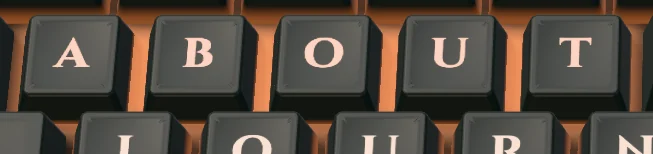
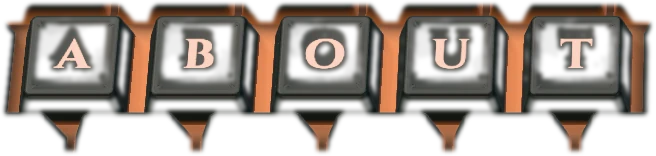
Footer keyboard: hover/press frames keep only the pixels that change
Each frame was a hard rectangle that also carried copies of the neighbouring
keys; scaled by the browser they sat a hair off the board beneath and the
keys under a pressed word looked distorted. The export now masks every frame
to what actually changes (the word and its light), feathered, so the
surrounding keys are always the board's own pixels.

Claude-Session: https://claude.ai/code/session_014kgsP4zXbR91SpjPr6JWR2

diff --git a/mockups/keys/board-export.py b/mockups/keys/board-export.py
@@ -3,7 +3,7 @@ Usage: python3 board-export.py <render dir> <repo root>
 Reads base.png (unlit), lit.png and <id>-h.png / <id>-p.png (hover / pressed, both lit) from render-board.js.
 Writes src/static/assets/footer-board/*.webp and the boxes in src/static/data/footer-board.json."""
 import json, sys
-from PIL import Image, ImageChops
+from PIL import Image, ImageChops, ImageFilter
 src, root = sys.argv[1], sys.argv[2]
 out = root + '/src/static/assets/footer-board'
 data_path = root + '/src/static/data/footer-board.json'
@@ -21,9 +21,16 @@ for id, key in data['keys'].items():
     key['hit'] = pct(x0 - crop[0], y0 - crop[1], x1 - crop[0], y1 - crop[1])
     for st in 'hp':
         im = Image.open(f'{src}/{id}-{st}.png').crop(crop)
-        d = ImageChops.difference(im, L).convert('L').point(lambda v: 255 if v > 3 else 0).getbbox()
-        d = (max(0, d[0] - 6), max(0, d[1] - 6), min(W, d[2] + 6), min(H, d[3] + 6))
-        im.crop(d).save(f'{out}/{id}-{st}.webp', quality=86, method=6)
+        # keep only what changes (the word and its light), feathered: unchanged neighbours stay the board's own
+        # pixels, so a frame scaled by the browser can never shift or blur the keys around it
+        diff = ImageChops.difference(im.convert('RGB'), L.convert('RGB'))
+        mask = diff.split()[0]
+        for ch in diff.split()[1:]: mask = ImageChops.lighter(mask, ch)
+        mask = mask.point(lambda v: 0 if v <= 2 else min(255, (v - 2) * 24)).filter(ImageFilter.MaxFilter(5)).filter(ImageFilter.GaussianBlur(2))
+        a = ImageChops.multiply(mask, im.getchannel('A'))
+        im.putalpha(a)
+        d = a.getbbox()
+        im.crop(d).save(f'{out}/{id}-{st}.webp', quality=88, method=6)
         key[st] = pct(*d)
 json.dump(data, open(data_path, 'w'), indent=2)
 print('board', W, H, 'keys', len(data['keys']))
